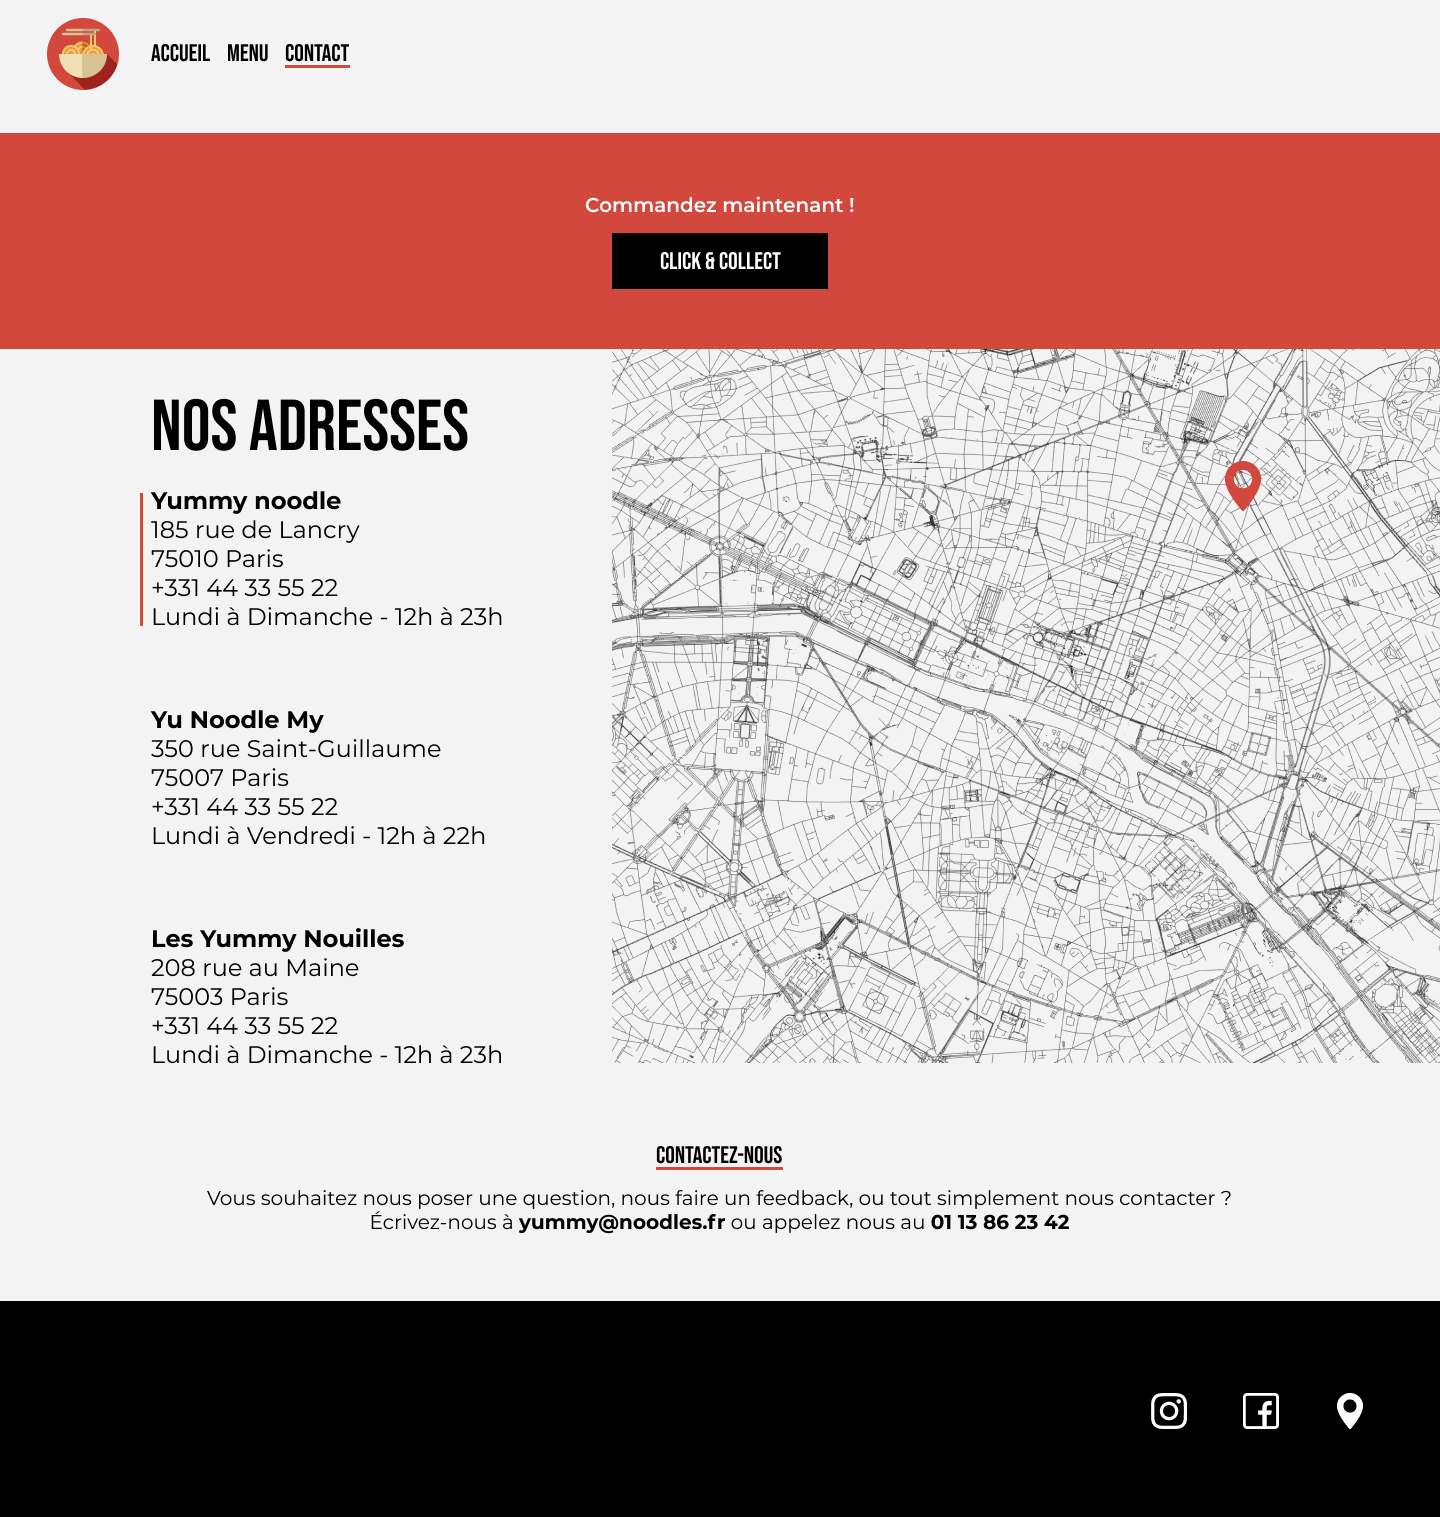
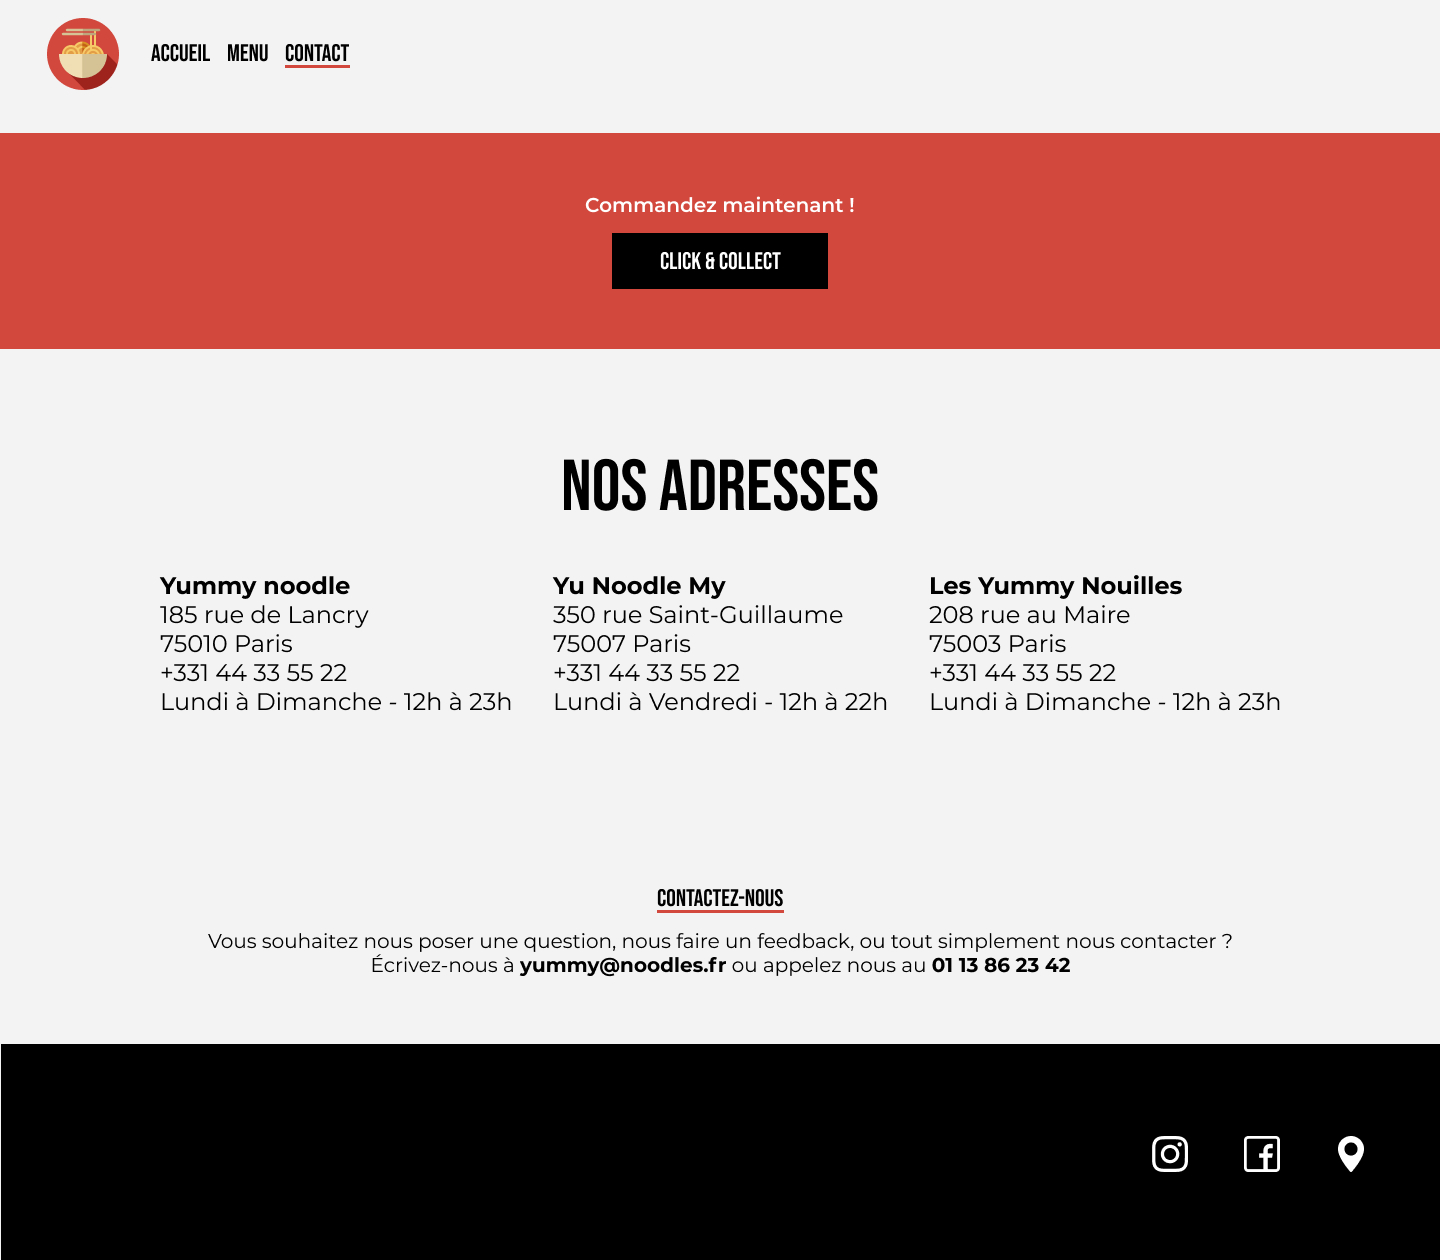
update menu + contact

diff --git a/contact.html b/contact.html
@@ -35,9 +35,11 @@ text-decoration-thickness: 0.188rem;}
           >Click & Collect</a
         >
       </div>
-      <section>
+      <section class="adresses">
         <h2>Nos adresses</h2>
-        <div>
+                <div class="resto">
+
+        
           <p>
             <strong>Yummy Noodle </strong><br />
             185 rue du Lancry <br />
@@ -63,8 +65,10 @@ text-decoration-thickness: 0.188rem;}
             +331 44 33 55 22 <br />
             Lundi à Dimanche - 12h à 23h
           </p>
-        </div>
+      </div>
       </section>
+
+
       <section class="contact">
         <h2>Contactez-nous</h2>
         <p>

diff --git a/style/pages/menu.css b/style/pages/menu.css
@@ -4,8 +4,7 @@ body{
 }
 .menu{
   padding: 0;
-  margin-top: 2.5rem;
-
+margin: 2.5rem auto 4.5rem auto;
 }
 .menu_header{
   width: 71rem;
@@ -39,13 +38,16 @@ body{
   width: 8rem;
   height: 8rem;
 }
-
+.menu_content h2{
+  font-size: 1.7rem;
+}
 
 
 .menu_header p span{
   color: var(--red-highlight);
 }
 .menu_content p{
+  /* font-size: 1rem; */
   line-height: 2.5rem;
 }
 .entrees, .plats, .desserts{

diff --git a/style/pages/contact.css b/style/pages/contact.css
@@ -1,0 +1,19 @@
+.adresses {
+  width: 71rem;
+  height: 17rem;
+  margin: 6rem auto 10.5rem auto;
+}
+
+.adresses h2 {
+  text-decoration: none;
+  font-size: 4.5rem;
+line-height: 0;
+}
+.resto{
+    display: flex;
+    flex-direction: row;
+    justify-content: space-between;
+}
+.resto{
+    font-size: 1.5rem;
+}

diff --git a/style/main.css b/style/main.css
@@ -8,7 +8,7 @@
 
 @import 'pages/home.css';
 @import 'pages/menu.css';
-
+@import 'pages/contact.css';
 
 
 :root{
